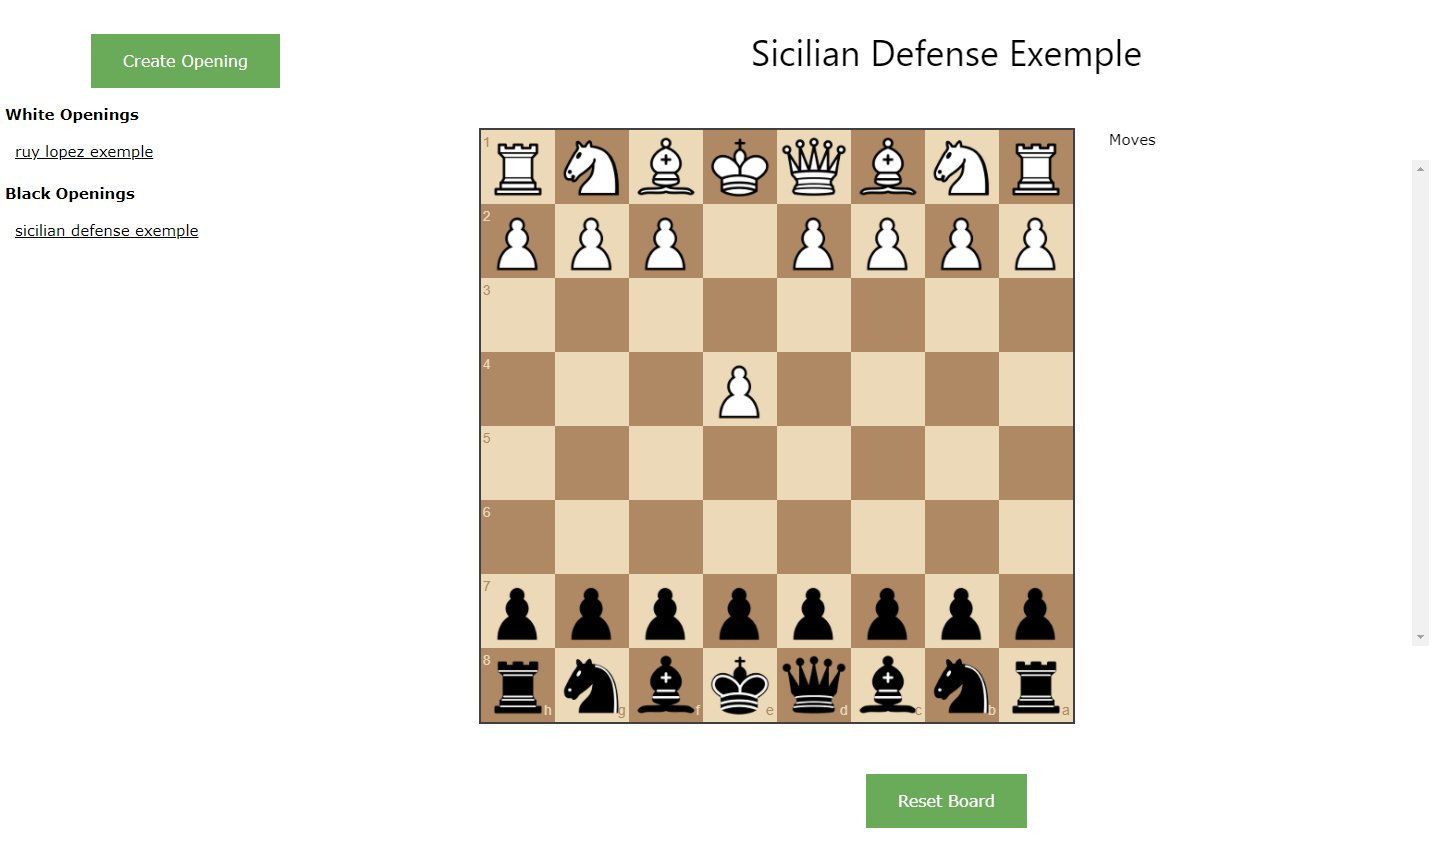
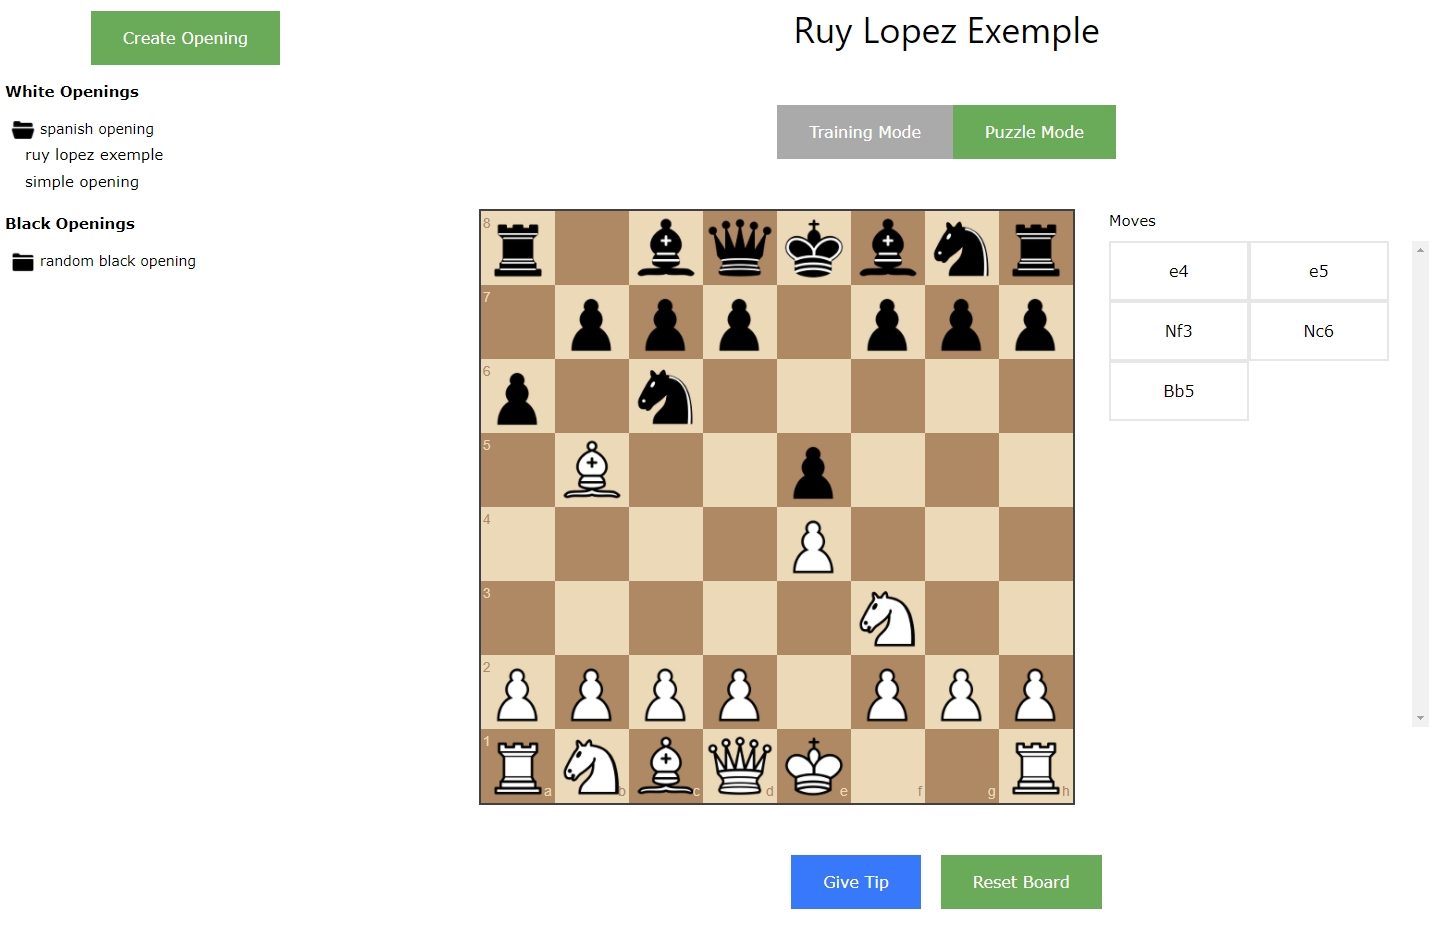
update readme with new image and text

diff --git a/README.md b/README.md
@@ -22,11 +22,17 @@ while trying to learn new chess openings I found it inconvenient to learn by wri
 
 ## How to use it ?
 
-1. You can train you favorite openings trying to do the good moves
+1. Go to https://lichess.org/analysis or https://www.chess.com/analysis and play some moves you want to learn
 
-1. You can create new openings by exporting the PGN (data of chess moves) from lichess or another website : everthing is explained in the modal of the create opening button
+1. Copy the PGN at the buttom of the page
 
-1. By clicking on the links you can load your openings
+1. Create new opening in the chess opening app
+
+1. By clicking on the links in the folders you can load your openings
+
+1. You can then train you favorite openings trying to do the good moves
+
+You can learn with training and puzzles
 
 ## For Developers
 
